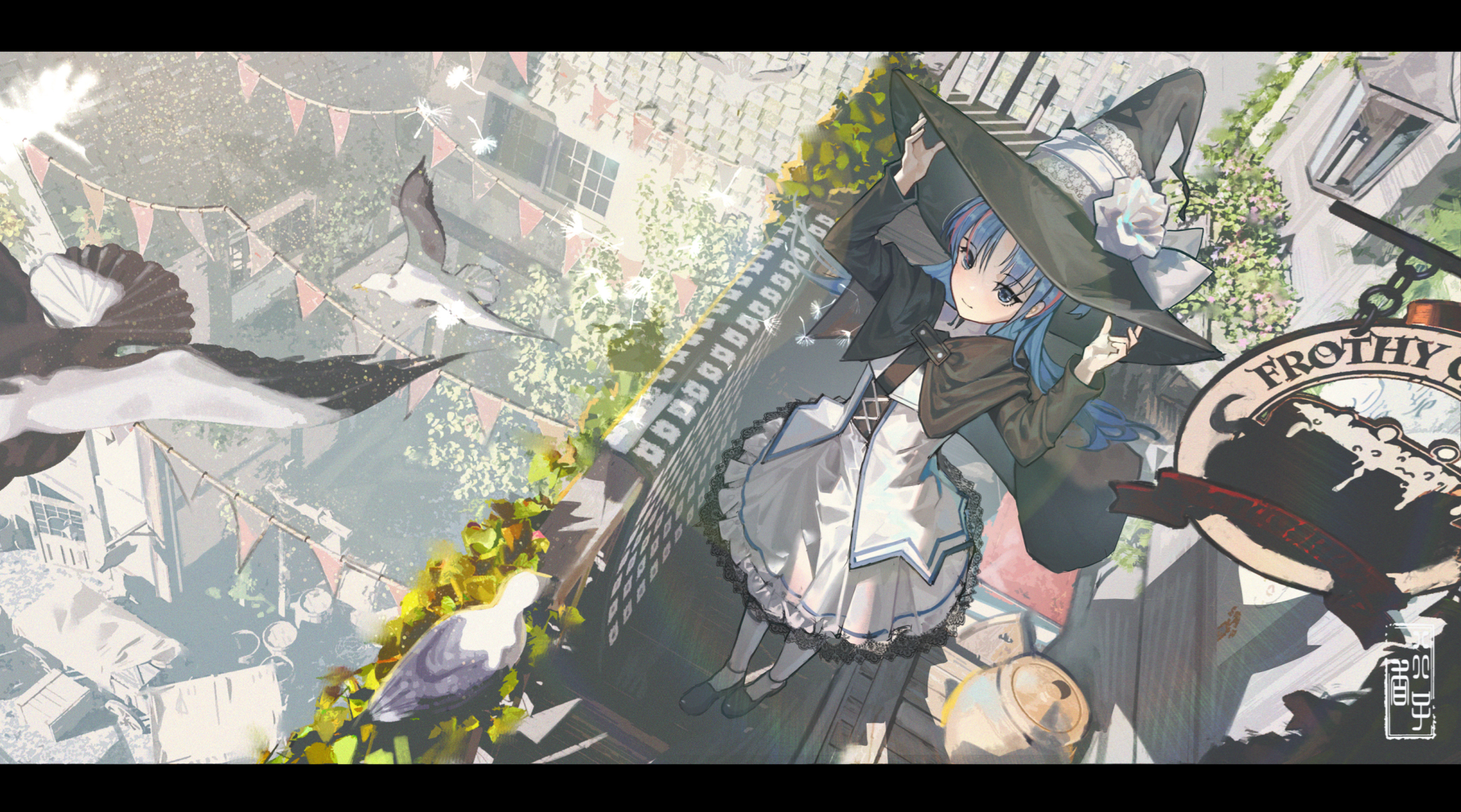
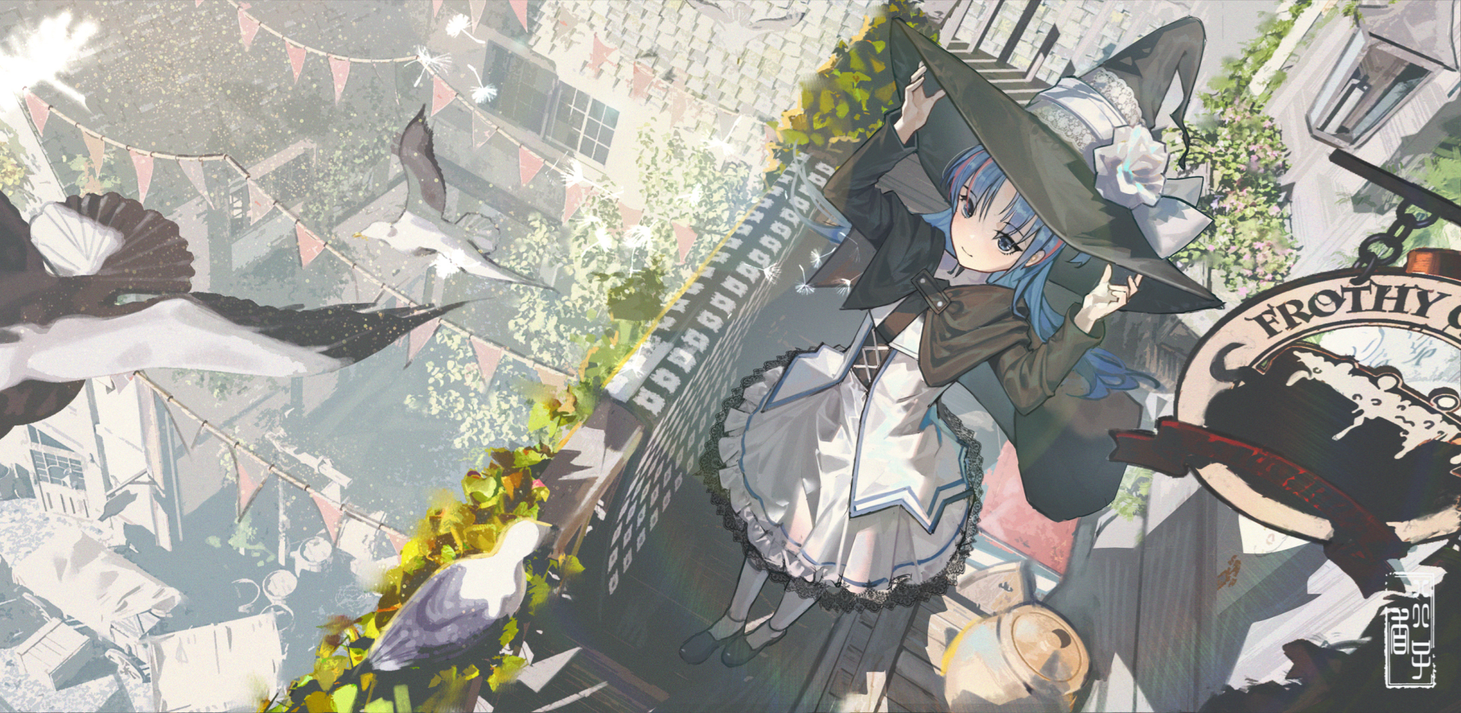
1

diff --git a/src/config.ts b/src/config.ts
@@ -17,7 +17,7 @@ export const siteConfig: SiteConfig = {
 	banner: {
 		enable: true,
 		src: "assets/images/banner.png", // Relative to the /src directory. Relative to the /public directory if it starts with '/'
-		position: "center", // Equivalent to object-position, only supports 'top', 'center', 'bottom'. 'center' by default
+		position: "top", // Equivalent to object-position, only supports 'top', 'center', 'bottom'. 'center' by default
 		credit: {
 			enable: true, // Display the credit text of the banner image
 			text: "千早Tihaya", // Credit text to be displayed
